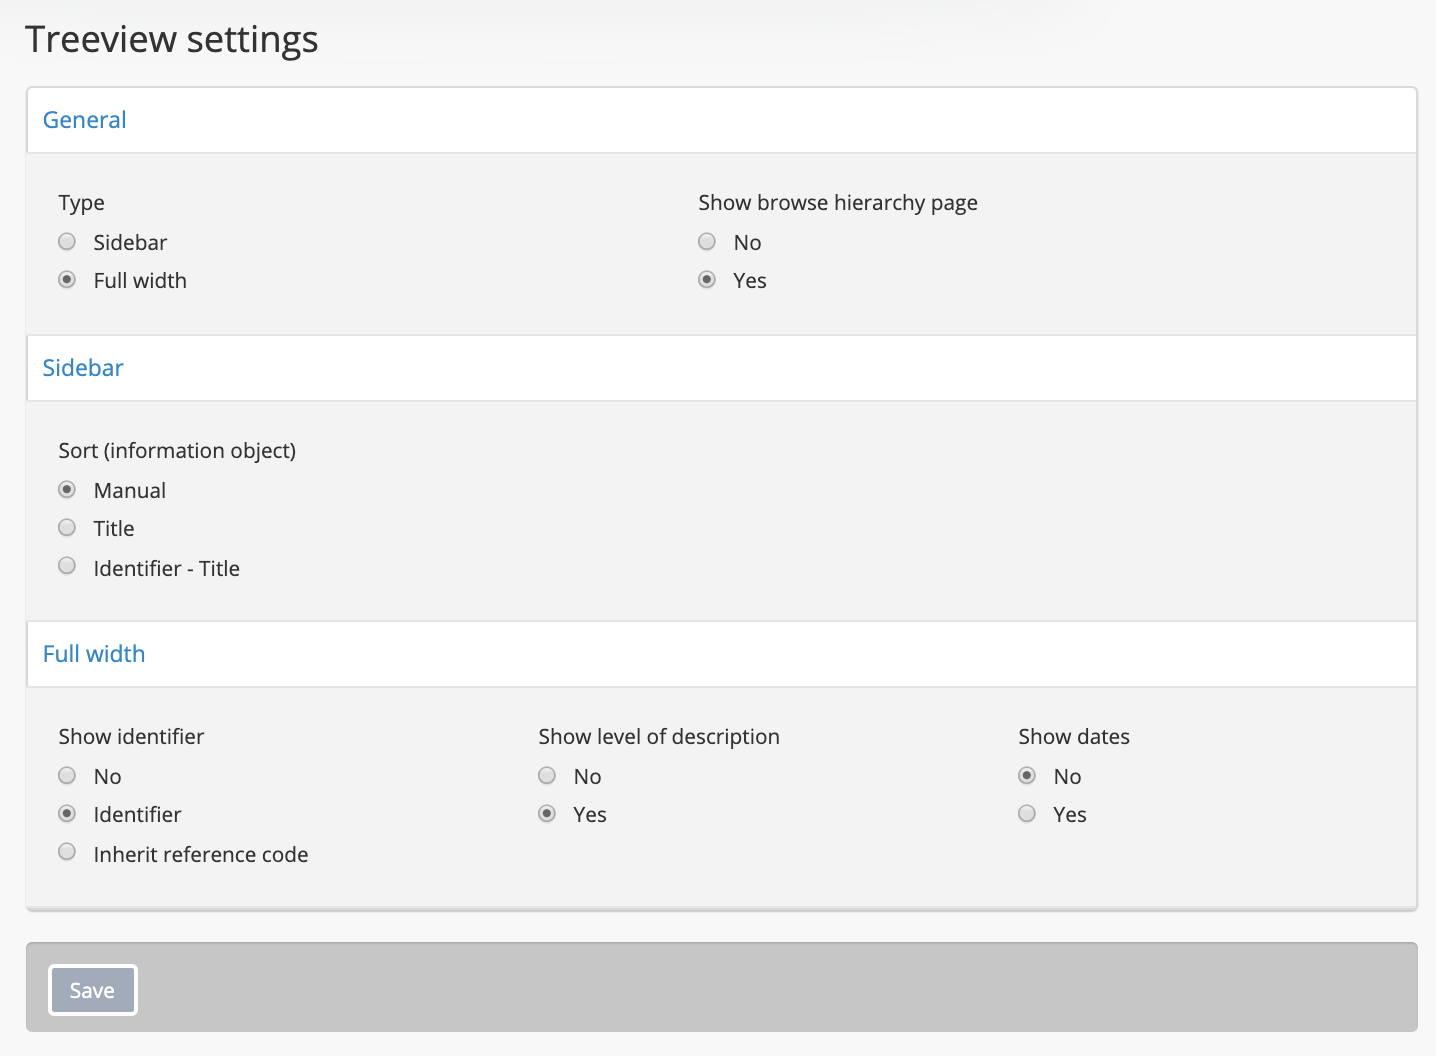
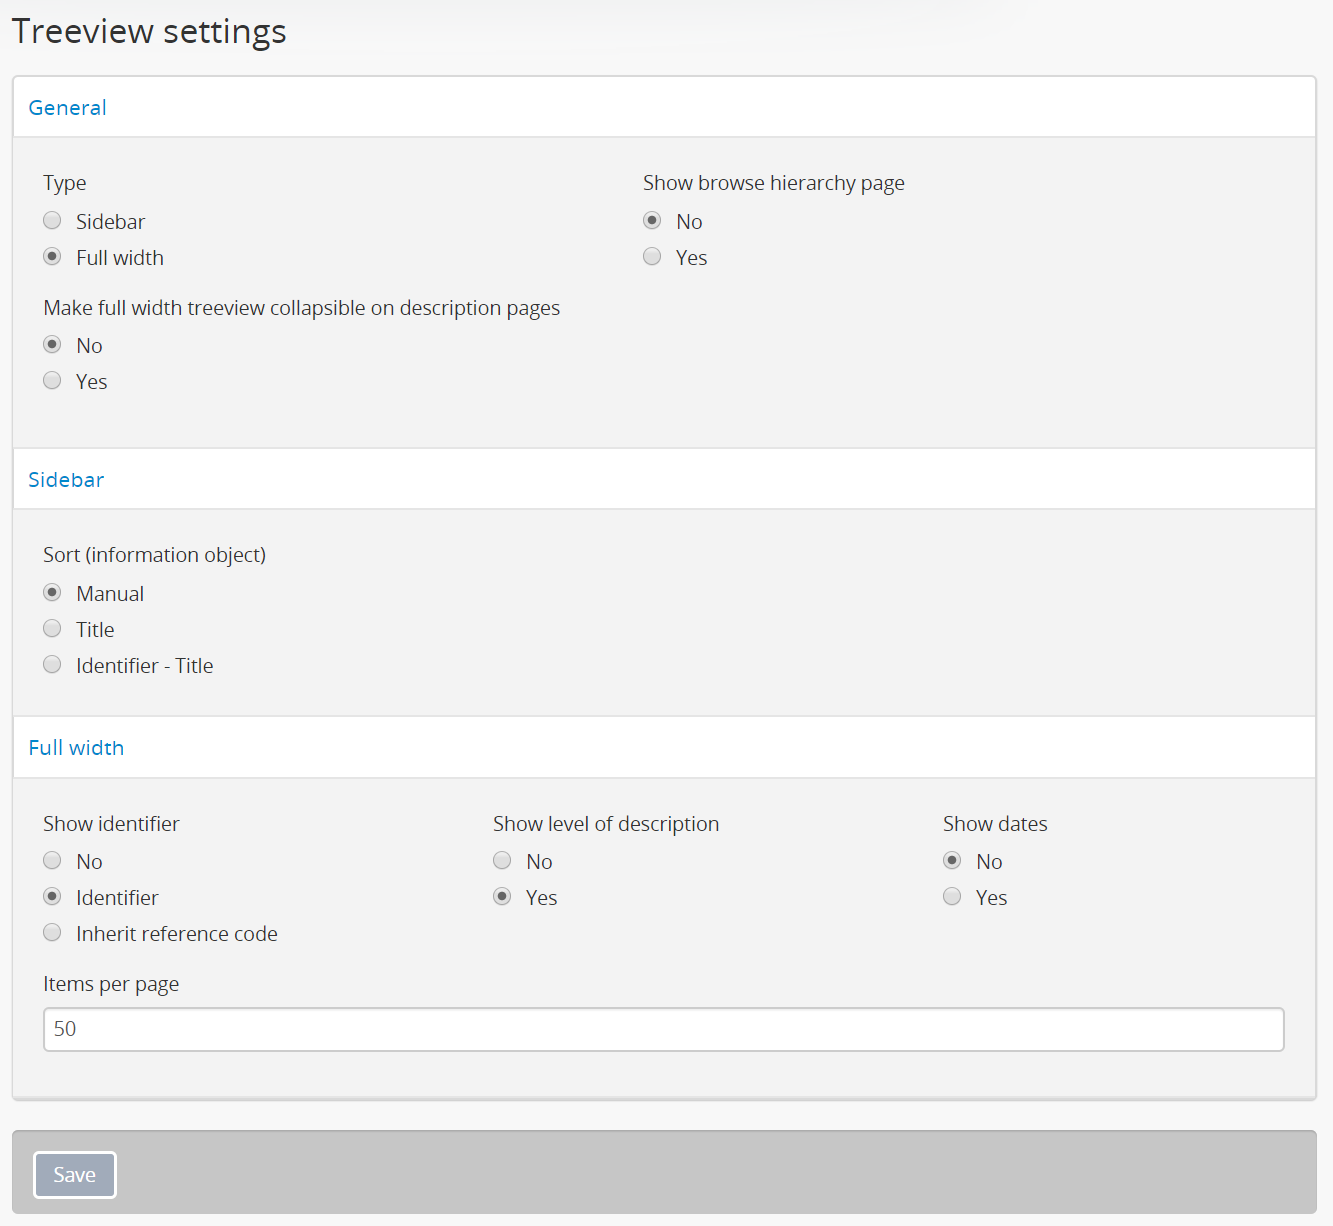
Update treeview settings, fixes #138

diff --git a/user-manual/administer/settings.rst b/user-manual/administer/settings.rst
@@ -2089,6 +2089,7 @@ information on navigation with and use of the treeview, see:
 **Jump to:**
 
 * :ref:`treeview-type`
+* :ref:`treeview-collapsible`
 * :ref:`hierarchy-browser-settings`
 * :ref:`sidebar-treeview-settings`
 * :ref:`fullwidth-treeview-settings`
@@ -2166,6 +2167,53 @@ new link will appear on the archival description :ref:`search/browse page <brows
 For more information on browsing with this option, see:
 
 * :ref:`browse`
+
+.. _treeview-collapsible:
+
+Make full width treeview collapsible on description pages
+---------------------------------------------------------
+
+This setting affects the default display of the full width treeview when users 
+first arrive on the :term:`view page` of an :term:`archival description`. See 
+:ref:`treeview-type` above for more information on the different treeview types
+available in AtoM. 
+
+By default in new AtoM installations, this setting will be disabled (i.e. set
+to "no"). When this setting is enabled (i.e. set to "yes"), the full-width
+treeview will be wrapped in a collapsible section, similar to
+:ref:`advanced-search-interface` on archival description search and browse
+pages. 
+
+.. image:: images/treeview-collapsed.*
+   :align: center
+   :width: 70%
+   :alt: An image showing the full-width treeview collapsed on a descrpition
+
+Once the setting is enabled, the treeview collapsible section will be closed
+when users first arrive on a :term:`view page`, but users can click to expand
+it, and it will maintain its open state as users navigate to different
+descriptions in the hierarchy via the treeview nodes. 
+
+.. image:: images/treeview-expanded.*
+   :align: center
+   :width: 70%
+   :alt: An image showing the full-width treeview expanded on a descrpition
+
+Users can click the container heading again at any time to collapse or expand
+the treeview. Navigating elsewhere or triggering a full page refresh will
+result in the treeview widget returning to its default collapsed state.
+
+An :term:`administrator` can also customize the labels used on the widget - the 
+default text included during installation reads "Show hierarchy" when collapsed, 
+and "Hide hierarchy" when expanded. To customize these default labels, see: 
+
+* :ref:`user-interface-labels`
+
+.. SEEALSO::
+
+   * :ref:`fullwidth-treeview-settings`
+   * :ref:`treeview-type`
+   * :ref:`context-menu-treeview`
 
 .. _hierarchy-browser-settings:
 
@@ -2276,6 +2324,9 @@ So for a Series level description with an identifier of 004 called
 
 Each configurable element is described further below.
 
+.. SEEALSO:: 
+
+   * :ref:`treeview-collapsible`
 
 .. _fwt-show-id:
 
@@ -2308,6 +2359,42 @@ the first will be shown. Other event type dates (for example, dates of
 accumulation, or dates of broadcast, etc.) are not included regardless of the
 setting.
 
+.. _fwt-items-per-page:
+
+Items per page
+^^^^^^^^^^^^^^
+
+This setting controls how many immediate :term:`child <child record>` 
+descriptions are loaded below the top-level description when users first visit
+a hierarchical description's :term:`view page`. 
+
+Like the sidebar treeview, for performance reasons AtoM may not load all
+available descriptions at once, when there are many immediate 
+:term:`children <child record>` below the top-level description in the 
+:term:`archival unit`. The default value for this behavior is 50 - meaning, if 
+there are more than 50 immediate children below the parent description, AtoM 
+will add a count of the number of remaining records not immediately displayed to
+a button in the top right corner.
+
+.. image:: images/treeview-paging-1.*
+   :align: center
+   :width: 80%
+   :alt: An image of paging in the full-width treeview
+
+Clicking on that button will load the next set of records, using this "items
+per page" setting value to determine how many to load at once. If there are
+still more records not displayed, the number of remaining records will be
+shown and the user can choose to see the next set, or return to the beginning
+by choosing "reset".
+
+.. image:: images/treeview-paging-2.*
+   :align: center
+   :width: 80%
+   :alt: An image of paging in the full-width treeview
+
+To allow for more records to be loaded initially, and with each subsequent click
+of the "More" button, an :term:`administrator` can adjust this "Items per page"
+value. The minimum value is 10, and the maximum value that can be set is 1,000.
 
 :ref:`Back to top <settings>`
 
@@ -2333,7 +2420,11 @@ The code, therefore, uses generic terms for entities.
 :term:`Administrators <administrator>` can specify how they want these
 :term:`terms <term>` to appear in the :term:`user interface` labels to suit the
 institution's collections. The default labels that ship with AtoM are terms
-typically used by archival institutions.
+typically used by archival institutions, but can be customized as desired. 
+Additionally, some of the user interface label settings allow an administrator
+to customize the display labels on particular user interface elements, such as 
+the text shown for collapsing and expanding the full width treeview when the  
+:ref:`treeview-collapsible` is enabled. 
 
 .. image:: images/user-interface-label.*
    :align: center
@@ -2372,6 +2463,16 @@ see glossary definitions and descriptions of how the terms are used in AtoM.
   when enabled, this is the default placeholder help text that will appear in the
   per-institution search box included in the :term:`institution block`. For more
   information, see: :ref:`enable-scoping`
+* fullTreeviewCollapseOpenedButtonText: Text used in the setting to 
+  :ref:`treeview-collapsible`. This text will be displayed on the collapsible widget
+  when the widget is expanded, showing the descriptions. The text used should 
+  suggest to users that clicking it will cause the widget to collapse, hiding the 
+  treeview.   
+* fullTreeviewCollapseClosedButtonText: Text used in the setting to 
+  :ref:`treeview-collapsible`. This text will be displayed on the collapsible widget
+  when the widget is collapsed, hiding the descriptions. The text used should 
+  suggest to users that clicking it will cause the widget to expand, showing the 
+  treeview.
 
 :term:`User interface <user interface>` labels can be changed by
 :term:`administrators <administrator>` by entering a new label(s) into the

diff --git a/user-manual/access-content/context-menu.rst b/user-manual/access-content/context-menu.rst
@@ -290,6 +290,19 @@ area further:
 
    Click and drag the bottom bar of the full-width treeview viewing area to expand it
 
+.. NOTE:: 
+
+   An :term:`administrator` can also enable a setting that will display the full
+   width treeview in a collapsible container, which is closed by default when
+   users first navigate to an archival description :term:`view page`. This
+   widget behaves similarly to :ref:`advanced-search-interface` on archival
+   description search and browse pages. An administrator can also customize the 
+   labels shown for collapsing and expanding the treeview. For more information, 
+   see: 
+
+   * :ref:`treeview-collapsible`
+   * :ref:`user-interface-labels`
+
 The full-width treeview also supports keyboard navigation - use the up and
 down keys to navigate, and the left/right keys to expand or collapse
 descriptions with children.
@@ -326,24 +339,37 @@ record. When navigating with a keyboard, the view page will not update until
 the user presses the "enter" key to select the description for viewing.
 
 Like the sidebar treeview, for performance reasons AtoM may not load all
-available descriptions in the current position of the hierarchy. If there are
-more than 50 immediate children to the level being viewed AtoM will add the
-number of remaining records not immediately displayed in the top right corner.
+available descriptions at once, when there are many immediate 
+:term:`children <child record>` below the top-level description in the 
+:term:`archival unit`. The default value for this behavior is 50 - meaning, if 
+there are more than 50 immediate children below the parent description, AtoM 
+will add a count of the number of remaining records not immediately displayed to
+a button in the top right corner.
 
 .. image:: images/treeview-paging-1.*
    :align: center
    :width: 80%
    :alt: An image of paging in the full-width treeview
 
-Clicking on that number will load the next 50 records. If there are still more
-records not displayed, the number of remaining records will be shown and the
-user can choose to see the next set, or return to the beginning by choosing
-"reset".
+Clicking on that button will load the next set of records. If there are
+still more records not displayed, the number of remaining records will be
+shown and the user can choose to see the next set, or return to the beginning
+by choosing "reset".
 
 .. image:: images/treeview-paging-2.*
    :align: center
    :width: 80%
    :alt: An image of paging in the full-width treeview
+
+.. TIP::
+
+   An :term:`administrator` can adjust how many child records are loaded in the 
+   full-width treeview initially, and with each click of the "More" button, 
+   via a pager setting in |gears| **Admin > Settings > Treeview**. The default
+   value can be set anywhere between 10 and 1,000. For more 
+   information, see: 
+
+   * Treeview :ref:`fwt-items-per-page`
 
 Like the sidebar treeview, "(Draft)" will appear beside all draft descriptions
 displayed to authenticated (i.e. logged in) users. Unlike the sidebar treeview,
